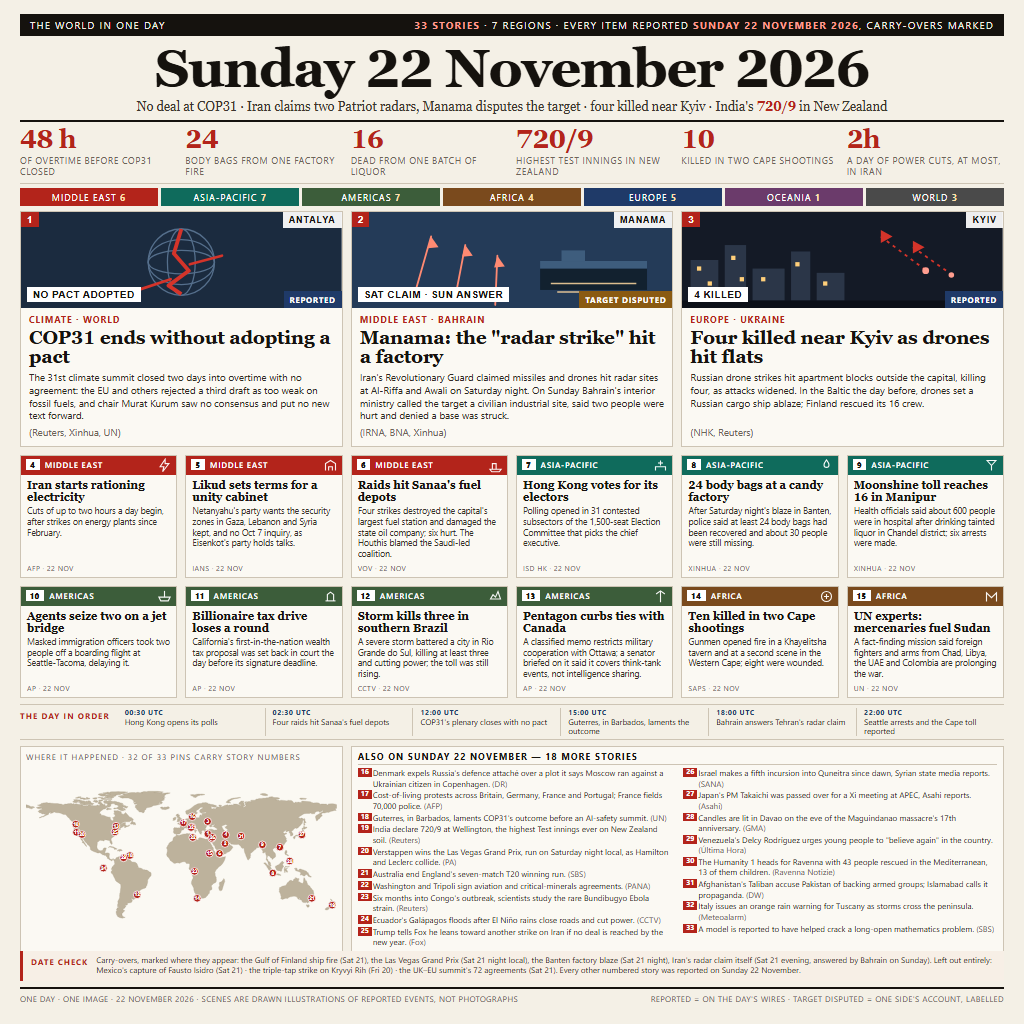
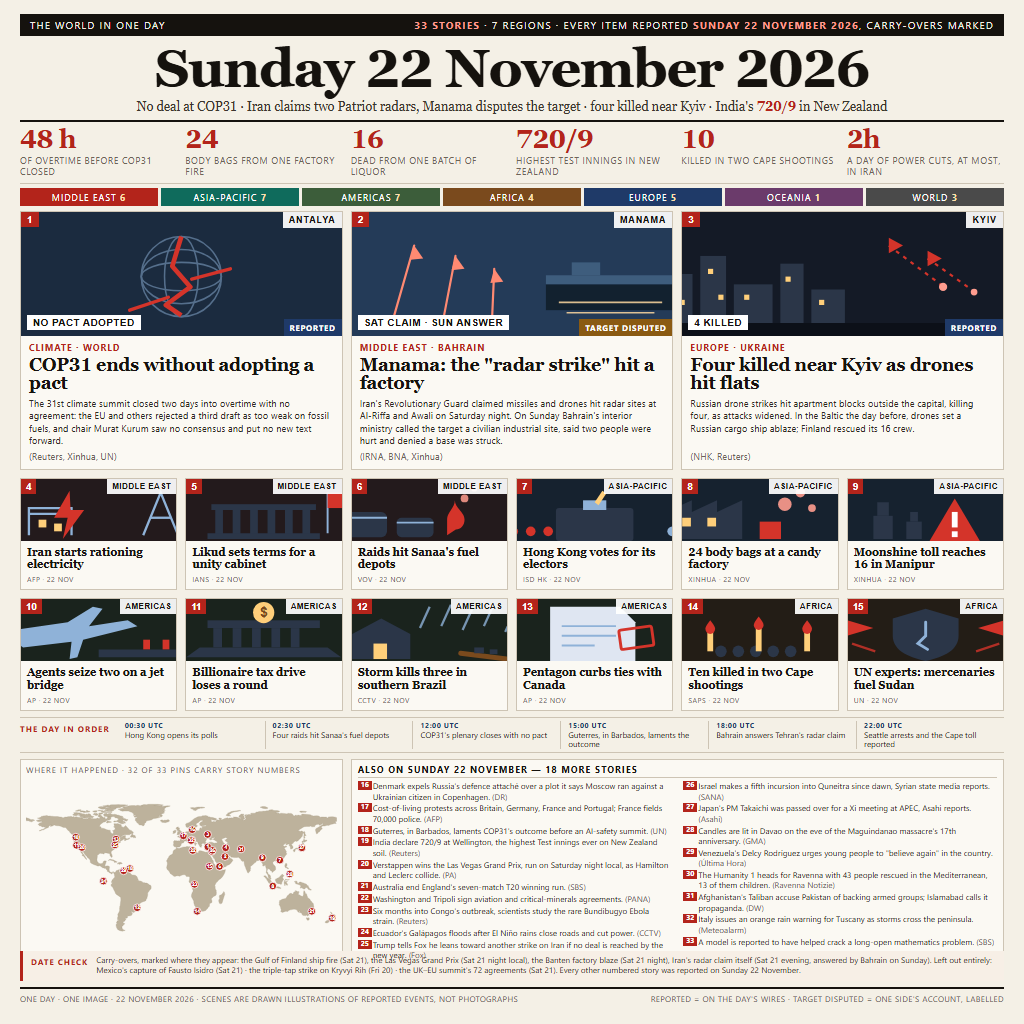
v5: every mid-size card gets a scene at half the card; hero art enlarged
Following the field's leading approach (scenes, not labels, carry the card): the twelve
mid-size cards now each hold a drawn scene occupying about 56% of the card, in the same flat
silhouette grammar and one night palette as the three lead panels, which grew from 96 to 124px.
Card body copy is gone: the picture and a two-line headline carry the story, and the small
print stays in the also-list. Scenes are rebuilt for semantic fit (a crack across Sudan's
shield, not a medical cross; a fallen trunk for Brazil's storm).

Changed region(s): [[0.0, 0.2188, 1.0, 0.9375]]

diff --git a/image/frontpage.html b/image/frontpage.html
@@ -50,7 +50,7 @@
 
   .heroes { display: grid; grid-template-columns: repeat(3, 1fr); gap: 8px; }
   .hero { border: 1px solid var(--rule); background: #fbf9f3; display: flex; flex-direction: column; }
-  .hero .art { height: 96px; position: relative; overflow: hidden; }
+  .hero .art { height: 124px; position: relative; overflow: hidden; }
   .hero .art svg { width: 100%; height: 100%; display: block; }
   .hero .n { position: absolute; left: 0; top: 0; background: var(--red); color: #fff; font: 700 10px Arial; padding: 2px 6px; }
   .hero .place { position: absolute; right: 0; top: 0; background: rgba(255,255,255,0.93); color: var(--ink); font: 700 9px Arial; letter-spacing: 0.1em; padding: 3px 6px; z-index: 2; }
@@ -62,26 +62,19 @@
   .hero .tag.dis { background: var(--amber); }
   .hero .txt { padding: 6px 8px 7px; flex: 1; display: flex; flex-direction: column; }
   .hero .k { font-size: 8.6px; letter-spacing: 0.13em; text-transform: uppercase; color: var(--red); font-weight: 700; }
-  .hero h2 { font-family: Georgia, serif; font-size: 19px; line-height: 1.04; margin: 3px 0 4px; letter-spacing: -0.2px; }
-  .hero p { font-size: 9.8px; line-height: 1.3; color: #2f2a23; display: flex; flex-direction: column; flex: 1; }
+  .hero h2 { font-family: Georgia, serif; font-size: 18px; line-height: 1.04; margin: 3px 0 4px; letter-spacing: -0.2px; }
+  .hero p { font-size: 9.4px; line-height: 1.3; color: #2f2a23; display: flex; flex-direction: column; flex: 1; }
   .hero p em { font-style: normal; color: var(--mute); display: block; margin-top: auto; padding-top: 4px; }
 
   .tiles { display: grid; grid-template-columns: repeat(6, 1fr); gap: 8px; margin-top: 8px; }
-  .tile { border: 1px solid var(--rule); background: #fbf9f3; padding: 0 0 4px; display: flex; flex-direction: column; }
-  .tile .strip { height: 19px; position: relative; }
-  .tile .strip span { position: absolute; left: 5px; top: 3px; color: #fff; font-size: 8.2px; font-weight: 600;
-                      letter-spacing: 0.08em; text-transform: uppercase; }
-  .tile .strip b { display: inline-block; background: #fff; color: var(--ink); font-size: 8.2px; padding: 0 4px; margin-right: 5px; }
-  .tile .strip svg { position: absolute; right: 4px; top: 2px; width: 15px; height: 15px; opacity: 0.95; }
-  .tile.me .strip { background: var(--red); }
-  .tile.eu .strip { background: var(--blue); }
-  .tile.am .strip { background: var(--green); }
-  .tile.ap .strip { background: #0f6b5c; }
-  .tile.af .strip { background: var(--brown); }
-  .tile h3 { font-family: Georgia, serif; font-size: 11.2px; line-height: 1.08; padding: 4px 6px 0; }
-  .tile p { font-size: 8.5px; line-height: 1.26; color: #3a342c; padding: 3px 6px 0; }
-  .tile .src { font-size: 7.2px; color: var(--mute); padding: 3px 6px 0; margin-top: auto; text-transform: uppercase; letter-spacing: 0.05em; }
-
+  .tile { border: 1px solid var(--rule); background: #fbf9f3; display: flex; flex-direction: column; overflow: hidden; }
+  .tile .scene { position: relative; height: 62px; }
+  .tile .scene svg { width: 100%; height: 100%; display: block; }
+  .tile .n { position: absolute; left: 0; top: 0; background: var(--red); color: #fff; font: 700 9.5px Arial; padding: 2px 5px; }
+  .tile .rg { position: absolute; right: 0; top: 0; background: rgba(255,255,255,0.93); color: var(--ink);
+              font: 700 7.6px Arial; letter-spacing: 0.09em; text-transform: uppercase; padding: 3px 5px; }
+  .tile h3 { font-family: Georgia, serif; font-size: 11px; line-height: 1.1; padding: 5px 6px 0; }
+  .tile .src { font-size: 7.2px; color: var(--mute); padding: 4px 6px 5px; margin-top: auto; text-transform: uppercase; letter-spacing: 0.05em; }
   .order { display: flex; align-items: stretch; gap: 0; margin-top: 6px; border-top: 1px solid var(--rule);
            border-bottom: 1px solid var(--rule); padding: 3px 0; }
   .order .h { font-size: 7.9px; letter-spacing: 0.14em; text-transform: uppercase; font-weight: 700; color: var(--red);
@@ -224,104 +217,78 @@
 
   <div class="tiles">
     <div class="tile me">
-      <div class="strip"><span><b>4</b>Middle East</span>
-        <svg viewBox="0 0 24 24" fill="none" stroke="#fff" stroke-width="1.8"><path d="M13 2 L5 14h6l-2 8 10-13h-6z"/></svg>
-      </div>
+      <div class="scene"><svg viewBox="0 0 300 64" preserveAspectRatio="xMidYMid slice"><rect width="300" height="64" fill="#231a1c"/><g stroke="#8fb2d8" stroke-width="2.4" fill="none"> <path d="M196 58 L214 14 L232 58"/><path d="M203 40 h22"/> <path d="M78 58 V30 h44 v28"/> <path d="M78 36 h44"/></g><g fill="#ffcf7a"><rect x="88" y="42" width="8" height="8"/><rect x="104" y="46" width="8" height="8"/></g><path d="M120 12 L104 40 h14 l-5 22 22 -30 h-14 z" fill="#d4342a"/></svg>
+        <span class="n">4</span><span class="rg">Middle East</span></div>
       <h3>Iran starts rationing electricity</h3>
-      <p>Cuts of up to two hours a day begin, after strikes on energy plants since February.</p>
       <div class="src">AFP · 22 Nov</div>
     </div>
     <div class="tile me">
-      <div class="strip"><span><b>5</b>Middle East</span>
-        <svg viewBox="0 0 24 24" fill="none" stroke="#fff" stroke-width="1.8"><path d="M4 20V9l8-5 8 5v11"/><path d="M9 20v-6h6v6"/></svg>
-      </div>
+      <div class="scene"><svg viewBox="0 0 300 64" preserveAspectRatio="xMidYMid slice"><rect width="300" height="64" fill="#231a1c"/><g fill="#2b3648"><rect x="96" y="26" width="108" height="6"/><rect x="100" y="32" width="8" height="26"/><rect x="118" y="32" width="8" height="26"/><rect x="136" y="32" width="8" height="26"/><rect x="154" y="32" width="8" height="26"/><rect x="172" y="32" width="8" height="26"/><rect x="190" y="32" width="8" height="26"/><rect x="92" y="56" width="116" height="6"/></g><g stroke="#8fb2d8" stroke-width="2"><path d="M216 56 V14"/><path d="M216 14 h26 v16 h-26z" fill="#d4342a" stroke="none"/></g></svg>
+        <span class="n">5</span><span class="rg">Middle East</span></div>
       <h3>Likud sets terms for a unity cabinet</h3>
-      <p>Netanyahu's party wants the security zones in Gaza, Lebanon and Syria kept, and no Oct 7 inquiry, as Eisenkot's party holds talks.</p>
       <div class="src">IANS · 22 Nov</div>
     </div>
     <div class="tile me">
-      <div class="strip"><span><b>6</b>Middle East</span>
-        <svg viewBox="0 0 24 24" fill="none" stroke="#fff" stroke-width="1.8"><path d="M3 18h18l-3 4H6z"/><path d="M7 18V9h6v9"/></svg>
-      </div>
+      <div class="scene"><svg viewBox="0 0 300 64" preserveAspectRatio="xMidYMid slice"><rect width="300" height="64" fill="#231a1c"/><g fill="#2b3648"><rect x="60" y="34" width="46" height="26" rx="6"/><rect x="116" y="40" width="38" height="20" rx="5"/></g><g stroke="#8fb2d8" stroke-width="2" fill="none"><path d="M60 40 h46 M116 45 h38"/></g><g fill="#d4342a"><path d="M168 58 v-16 c0 -8 8 -12 8 -20 c0 8 10 12 10 20 c0 6 -4 10 -9 10 z"/></g><g fill="#ff9d8f" opacity="0.85"><circle cx="186" cy="20" r="4"/><circle cx="196" cy="10" r="3"/></g></svg>
+        <span class="n">6</span><span class="rg">Middle East</span></div>
       <h3>Raids hit Sanaa's fuel depots</h3>
-      <p>Four strikes destroyed the capital's largest fuel station and damaged the state oil company; six hurt. The Houthis blamed the Saudi-led coalition.</p>
       <div class="src">VOV · 22 Nov</div>
     </div>
     <div class="tile ap">
-      <div class="strip"><span><b>7</b>Asia-Pacific</span>
-        <svg viewBox="0 0 24 24" fill="none" stroke="#fff" stroke-width="1.8"><path d="M4 20v-6h16v6"/><path d="M12 4v8"/><path d="M8 8h8"/></svg>
-      </div>
+      <div class="scene"><svg viewBox="0 0 300 64" preserveAspectRatio="xMidYMid slice"><rect width="300" height="64" fill="#16222f"/><g fill="#2b3648"><rect x="110" y="30" width="80" height="34" rx="3"/></g><rect x="138" y="22" width="24" height="10" fill="#8fb2d8"/><path d="M150 24 l8 -12 l4 3 l-8 12z" fill="#ffcf7a"/><g fill="#d4342a"><circle cx="66" cy="54" r="5"/><circle cx="84" cy="54" r="5"/><circle cx="102" cy="54" r="5"/></g><g fill="#8fb2d8"><circle cx="230" cy="54" r="5"/><circle cx="248" cy="54" r="5"/></g></svg>
+        <span class="n">7</span><span class="rg">Asia-Pacific</span></div>
       <h3>Hong Kong votes for its electors</h3>
-      <p>Polling opened in 31 contested subsectors of the 1,500-seat Election Committee that picks the chief executive.</p>
       <div class="src">ISD HK · 22 Nov</div>
     </div>
     <div class="tile ap">
-      <div class="strip"><span><b>8</b>Asia-Pacific</span>
-        <svg viewBox="0 0 24 24" fill="none" stroke="#fff" stroke-width="1.8"><path d="M12 3c3 4 4 6 4 8a4 4 0 0 1-8 0c0-2 1-4 4-8z"/></svg>
-      </div>
+      <div class="scene"><svg viewBox="0 0 300 64" preserveAspectRatio="xMidYMid slice"><rect width="300" height="64" fill="#16222f"/><path d="M54 62 V34 l26 -12 v12 l26 -12 v12 l26 -12 v40z" fill="#2b3648"/><g fill="#ffcf7a"><rect x="70" y="40" width="9" height="9"/><rect x="96" y="40" width="9" height="9"/></g><g fill="#ff9d8f" opacity="0.9"><circle cx="176" cy="26" r="7"/><circle cx="192" cy="14" r="5"/><circle cx="204" cy="30" r="4"/></g><path d="M150 62 v-18 h22 v18z" fill="#d4342a"/></svg>
+        <span class="n">8</span><span class="rg">Asia-Pacific</span></div>
       <h3>24 body bags at a candy factory</h3>
-      <p>After Saturday night's blaze in Banten, police said at least 24 body bags had been recovered and about 30 people were still missing.</p>
       <div class="src">Xinhua · 22 Nov</div>
     </div>
     <div class="tile ap">
-      <div class="strip"><span><b>9</b>Asia-Pacific</span>
-        <svg viewBox="0 0 24 24" fill="none" stroke="#fff" stroke-width="1.8"><path d="M5 4h14l-7 8z"/><path d="M12 12v8"/></svg>
-      </div>
+      <div class="scene"><svg viewBox="0 0 300 64" preserveAspectRatio="xMidYMid slice"><rect width="300" height="64" fill="#16222f"/><g fill="#2b3648"><path d="M96 62 V38 h20 v24z"/><rect x="100" y="24" width="12" height="14"/><path d="M130 62 V44 h16 v18z"/><rect x="134" y="34" width="8" height="10"/></g><g fill="#d4342a"><path d="M180 20 l26 44 h-52z"/></g><rect x="177" y="34" width="6" height="16" fill="#fff"/><rect x="177" y="54" width="6" height="6" fill="#fff"/></svg>
+        <span class="n">9</span><span class="rg">Asia-Pacific</span></div>
       <h3>Moonshine toll reaches 16 in Manipur</h3>
-      <p>Health officials said about 600 people were in hospital after drinking tainted liquor in Chandel district; six arrests were made.</p>
       <div class="src">Xinhua · 22 Nov</div>
     </div>
-
     <div class="tile am">
-      <div class="strip"><span><b>10</b>Americas</span>
-        <svg viewBox="0 0 24 24" fill="none" stroke="#fff" stroke-width="1.8"><path d="M3 13h18l-3 6H6z"/><path d="M12 3v10"/></svg>
-      </div>
+      <div class="scene"><svg viewBox="0 0 300 64" preserveAspectRatio="xMidYMid slice"><rect width="300" height="64" fill="#1a231d"/><path d="M48 34 l70 -10 l26 -16 l10 2 l-14 18 l40 -6 l10 6 l-56 14 l-6 18 l-8 2 l2 -18 l-50 6z" fill="#8fb2d8"/><path d="M150 52 h96 v8 h-96z" fill="#2b3648"/><g fill="#d4342a"><rect x="196" y="42" width="7" height="10"/><rect x="216" y="42" width="7" height="10"/></g></svg>
+        <span class="n">10</span><span class="rg">Americas</span></div>
       <h3>Agents seize two on a jet bridge</h3>
-      <p>Masked immigration officers took two people off a boarding flight at Seattle-Tacoma, delaying it.</p>
       <div class="src">AP · 22 Nov</div>
     </div>
     <div class="tile am">
-      <div class="strip"><span><b>11</b>Americas</span>
-        <svg viewBox="0 0 24 24" fill="none" stroke="#fff" stroke-width="1.8"><path d="M4 19h16"/><path d="M7 19V9l5-4 5 4v10"/></svg>
-      </div>
+      <div class="scene"><svg viewBox="0 0 300 64" preserveAspectRatio="xMidYMid slice"><rect width="300" height="64" fill="#1a231d"/><g fill="#2b3648"><path d="M70 60 h160 l-14 -10 H84z"/><rect x="92" y="22" width="116" height="8"/><rect x="98" y="30" width="9" height="20"/><rect x="118" y="30" width="9" height="20"/><rect x="138" y="30" width="9" height="20"/><rect x="158" y="30" width="9" height="20"/><rect x="178" y="30" width="9" height="20"/></g><circle cx="150" cy="14" r="11" fill="#ffcf7a"/><text x="150" y="19" font-family="Arial" font-size="14" font-weight="700" fill="#7a4a1d" text-anchor="middle">$</text></svg>
+        <span class="n">11</span><span class="rg">Americas</span></div>
       <h3>Billionaire tax drive loses a round</h3>
-      <p>California's first-in-the-nation wealth tax proposal was set back in court the day before its signature deadline.</p>
       <div class="src">AP · 22 Nov</div>
     </div>
     <div class="tile am">
-      <div class="strip"><span><b>12</b>Americas</span>
-        <svg viewBox="0 0 24 24" fill="none" stroke="#fff" stroke-width="1.8"><path d="M4 16l4-7 4 4 4-9 4 12z"/></svg>
-      </div>
+      <div class="scene"><svg viewBox="0 0 300 64" preserveAspectRatio="xMidYMid slice"><rect width="300" height="64" fill="#1a231d"/><path d="M70 62 V36 l30 -16 l30 16 v26z" fill="#2b3648"/><rect x="92" y="46" width="14" height="16" fill="#ffcf7a"/><g stroke="#8fb2d8" stroke-width="2.4" opacity="0.8"><path d="M150 8 l-10 22"/><path d="M172 6 l-10 22"/><path d="M194 10 l-10 22"/><path d="M216 6 l-10 22"/><path d="M238 12 l-10 22"/></g><path d="M182 56 l48 6" stroke="#7a4a1d" stroke-width="5" stroke-linecap="round"/><g fill="#2b3648"><rect x="196" y="50" width="10" height="6"/><rect x="212" y="52" width="8" height="5"/></g></svg>
+        <span class="n">12</span><span class="rg">Americas</span></div>
       <h3>Storm kills three in southern Brazil</h3>
-      <p>A severe storm battered a city in Rio Grande do Sul, killing at least three and cutting power; the toll was still rising.</p>
       <div class="src">CCTV · 22 Nov</div>
     </div>
     <div class="tile am">
-      <div class="strip"><span><b>13</b>Americas</span>
-        <svg viewBox="0 0 24 24" fill="none" stroke="#fff" stroke-width="1.8"><path d="M12 3v18M5 8l7-5 7 5"/></svg>
-      </div>
+      <div class="scene"><svg viewBox="0 0 300 64" preserveAspectRatio="xMidYMid slice"><rect width="300" height="64" fill="#1a231d"/><g fill="#dfe6f2"><path d="M104 8 h72 l16 16 v40 h-88z"/></g><g stroke="#8fb2d8" stroke-width="2"><path d="M116 28 h56"/><path d="M116 38 h56"/><path d="M116 48 h34"/></g><g fill="none" stroke="#d4342a" stroke-width="3"><rect x="176" y="30" width="34" height="20" rx="2" transform="rotate(-8 193 40)"/></g></svg>
+        <span class="n">13</span><span class="rg">Americas</span></div>
       <h3>Pentagon curbs ties with Canada</h3>
-      <p>A classified memo restricts military cooperation with Ottawa; a senator briefed on it said it covers think-tank events, not intelligence sharing.</p>
       <div class="src">AP · 22 Nov</div>
     </div>
     <div class="tile af">
-      <div class="strip"><span><b>14</b>Africa</span>
-        <svg viewBox="0 0 24 24" fill="none" stroke="#fff" stroke-width="1.8"><circle cx="12" cy="12" r="8"/><path d="M12 8v8M8 12h8"/></svg>
-      </div>
+      <div class="scene"><svg viewBox="0 0 300 64" preserveAspectRatio="xMidYMid slice"><rect width="300" height="64" fill="#231d16"/><g fill="#2b3648"><circle cx="110" cy="54" r="6"/><circle cx="128" cy="54" r="6"/><circle cx="146" cy="54" r="6"/><circle cx="164" cy="54" r="6"/><circle cx="182" cy="54" r="6"/></g><g fill="#ffcf7a"><rect x="96" y="34" width="6" height="20"/><rect x="146" y="30" width="6" height="24"/><rect x="196" y="34" width="6" height="20"/></g><g fill="#d4342a"><path d="M99 22 c4 5 5 7 5 9 a5 5 0 0 1 -10 0 c0 -2 1 -4 5 -9z"/><path d="M149 18 c4 5 5 7 5 9 a5 5 0 0 1 -10 0 c0 -2 1 -4 5 -9z"/><path d="M199 22 c4 5 5 7 5 9 a5 5 0 0 1 -10 0 c0 -2 1 -4 5 -9z"/></g></svg>
+        <span class="n">14</span><span class="rg">Africa</span></div>
       <h3>Ten killed in two Cape shootings</h3>
-      <p>Gunmen opened fire in a Khayelitsha tavern and at a second scene in the Western Cape; eight were wounded.</p>
       <div class="src">SAPS · 22 Nov</div>
     </div>
     <div class="tile af">
-      <div class="strip"><span><b>15</b>Africa</span>
-        <svg viewBox="0 0 24 24" fill="none" stroke="#fff" stroke-width="1.8"><path d="M4 20V6l8 8 8-8v14"/></svg>
-      </div>
+      <div class="scene"><svg viewBox="0 0 300 64" preserveAspectRatio="xMidYMid slice"><rect width="300" height="64" fill="#231d16"/><path d="M150 10 l34 10 v18 c0 14 -14 22 -34 26 c-20 -4 -34 -12 -34 -26 V20z" fill="#2b3648"/><path d="M150 24 v14 l-8 8 l10 6" stroke="#8fb2d8" stroke-width="3" fill="none" stroke-linecap="round"/><g fill="#d4342a"><path d="M62 20 l34 10 -34 10z"/><path d="M238 20 l-34 10 34 10z"/></g><g stroke="#d4342a" stroke-width="2.4" opacity="0.8"><path d="M74 46 l24 8"/><path d="M226 46 l-24 8"/></g></svg>
+        <span class="n">15</span><span class="rg">Africa</span></div>
       <h3>UN experts: mercenaries fuel Sudan</h3>
-      <p>A fact-finding mission said foreign fighters and arms from Chad, Libya, the UAE and Colombia are prolonging the war.</p>
       <div class="src">UN · 22 Nov</div>
     </div>
   </div>
-
   <div class="order">
     <div class="h">The day in order</div>
     <ol>

diff --git a/image/frontpage.raw.html b/image/frontpage.raw.html
@@ -50,7 +50,7 @@
 
   .heroes { display: grid; grid-template-columns: repeat(3, 1fr); gap: 8px; }
   .hero { border: 1px solid var(--rule); background: #fbf9f3; display: flex; flex-direction: column; }
-  .hero .art { height: 96px; position: relative; overflow: hidden; }
+  .hero .art { height: 124px; position: relative; overflow: hidden; }
   .hero .art svg { width: 100%; height: 100%; display: block; }
   .hero .n { position: absolute; left: 0; top: 0; background: var(--red); color: #fff; font: 700 10px Arial; padding: 2px 6px; }
   .hero .place { position: absolute; right: 0; top: 0; background: rgba(255,255,255,0.93); color: var(--ink); font: 700 9px Arial; letter-spacing: 0.1em; padding: 3px 6px; z-index: 2; }
@@ -62,26 +62,19 @@
   .hero .tag.dis { background: var(--amber); }
   .hero .txt { padding: 6px 8px 7px; flex: 1; display: flex; flex-direction: column; }
   .hero .k { font-size: 8.6px; letter-spacing: 0.13em; text-transform: uppercase; color: var(--red); font-weight: 700; }
-  .hero h2 { font-family: Georgia, serif; font-size: 19px; line-height: 1.04; margin: 3px 0 4px; letter-spacing: -0.2px; }
-  .hero p { font-size: 9.8px; line-height: 1.3; color: #2f2a23; display: flex; flex-direction: column; flex: 1; }
+  .hero h2 { font-family: Georgia, serif; font-size: 18px; line-height: 1.04; margin: 3px 0 4px; letter-spacing: -0.2px; }
+  .hero p { font-size: 9.4px; line-height: 1.3; color: #2f2a23; display: flex; flex-direction: column; flex: 1; }
   .hero p em { font-style: normal; color: var(--mute); display: block; margin-top: auto; padding-top: 4px; }
 
   .tiles { display: grid; grid-template-columns: repeat(6, 1fr); gap: 8px; margin-top: 8px; }
-  .tile { border: 1px solid var(--rule); background: #fbf9f3; padding: 0 0 4px; display: flex; flex-direction: column; }
-  .tile .strip { height: 19px; position: relative; }
-  .tile .strip span { position: absolute; left: 5px; top: 3px; color: #fff; font-size: 8.2px; font-weight: 600;
-                      letter-spacing: 0.08em; text-transform: uppercase; }
-  .tile .strip b { display: inline-block; background: #fff; color: var(--ink); font-size: 8.2px; padding: 0 4px; margin-right: 5px; }
-  .tile .strip svg { position: absolute; right: 4px; top: 2px; width: 15px; height: 15px; opacity: 0.95; }
-  .tile.me .strip { background: var(--red); }
-  .tile.eu .strip { background: var(--blue); }
-  .tile.am .strip { background: var(--green); }
-  .tile.ap .strip { background: #0f6b5c; }
-  .tile.af .strip { background: var(--brown); }
-  .tile h3 { font-family: Georgia, serif; font-size: 11.2px; line-height: 1.08; padding: 4px 6px 0; }
-  .tile p { font-size: 8.5px; line-height: 1.26; color: #3a342c; padding: 3px 6px 0; }
-  .tile .src { font-size: 7.2px; color: var(--mute); padding: 3px 6px 0; margin-top: auto; text-transform: uppercase; letter-spacing: 0.05em; }
-
+  .tile { border: 1px solid var(--rule); background: #fbf9f3; display: flex; flex-direction: column; overflow: hidden; }
+  .tile .scene { position: relative; height: 62px; }
+  .tile .scene svg { width: 100%; height: 100%; display: block; }
+  .tile .n { position: absolute; left: 0; top: 0; background: var(--red); color: #fff; font: 700 9.5px Arial; padding: 2px 5px; }
+  .tile .rg { position: absolute; right: 0; top: 0; background: rgba(255,255,255,0.93); color: var(--ink);
+              font: 700 7.6px Arial; letter-spacing: 0.09em; text-transform: uppercase; padding: 3px 5px; }
+  .tile h3 { font-family: Georgia, serif; font-size: 11px; line-height: 1.1; padding: 5px 6px 0; }
+  .tile .src { font-size: 7.2px; color: var(--mute); padding: 4px 6px 5px; margin-top: auto; text-transform: uppercase; letter-spacing: 0.05em; }
   .order { display: flex; align-items: stretch; gap: 0; margin-top: 6px; border-top: 1px solid var(--rule);
            border-bottom: 1px solid var(--rule); padding: 3px 0; }
   .order .h { font-size: 7.9px; letter-spacing: 0.14em; text-transform: uppercase; font-weight: 700; color: var(--red);
@@ -224,104 +217,78 @@
 
   <div class="tiles">
     <div class="tile me">
-      <div class="strip"><span><b>4</b>Middle East</span>
-        <svg viewBox="0 0 24 24" fill="none" stroke="#fff" stroke-width="1.8"><path d="M13 2 L5 14h6l-2 8 10-13h-6z"/></svg>
-      </div>
+      <div class="scene"><svg viewBox="0 0 300 64" preserveAspectRatio="xMidYMid slice"><rect width="300" height="64" fill="#231a1c"/><g stroke="#8fb2d8" stroke-width="2.4" fill="none"> <path d="M196 58 L214 14 L232 58"/><path d="M203 40 h22"/> <path d="M78 58 V30 h44 v28"/> <path d="M78 36 h44"/></g><g fill="#ffcf7a"><rect x="88" y="42" width="8" height="8"/><rect x="104" y="46" width="8" height="8"/></g><path d="M120 12 L104 40 h14 l-5 22 22 -30 h-14 z" fill="#d4342a"/></svg>
+        <span class="n">4</span><span class="rg">Middle East</span></div>
       <h3>Iran starts rationing electricity</h3>
-      <p>Cuts of up to two hours a day begin, after strikes on energy plants since February.</p>
       <div class="src">AFP · 22 Nov</div>
     </div>
     <div class="tile me">
-      <div class="strip"><span><b>5</b>Middle East</span>
-        <svg viewBox="0 0 24 24" fill="none" stroke="#fff" stroke-width="1.8"><path d="M4 20V9l8-5 8 5v11"/><path d="M9 20v-6h6v6"/></svg>
-      </div>
+      <div class="scene"><svg viewBox="0 0 300 64" preserveAspectRatio="xMidYMid slice"><rect width="300" height="64" fill="#231a1c"/><g fill="#2b3648"><rect x="96" y="26" width="108" height="6"/><rect x="100" y="32" width="8" height="26"/><rect x="118" y="32" width="8" height="26"/><rect x="136" y="32" width="8" height="26"/><rect x="154" y="32" width="8" height="26"/><rect x="172" y="32" width="8" height="26"/><rect x="190" y="32" width="8" height="26"/><rect x="92" y="56" width="116" height="6"/></g><g stroke="#8fb2d8" stroke-width="2"><path d="M216 56 V14"/><path d="M216 14 h26 v16 h-26z" fill="#d4342a" stroke="none"/></g></svg>
+        <span class="n">5</span><span class="rg">Middle East</span></div>
       <h3>Likud sets terms for a unity cabinet</h3>
-      <p>Netanyahu's party wants the security zones in Gaza, Lebanon and Syria kept, and no Oct 7 inquiry, as Eisenkot's party holds talks.</p>
       <div class="src">IANS · 22 Nov</div>
     </div>
     <div class="tile me">
-      <div class="strip"><span><b>6</b>Middle East</span>
-        <svg viewBox="0 0 24 24" fill="none" stroke="#fff" stroke-width="1.8"><path d="M3 18h18l-3 4H6z"/><path d="M7 18V9h6v9"/></svg>
-      </div>
+      <div class="scene"><svg viewBox="0 0 300 64" preserveAspectRatio="xMidYMid slice"><rect width="300" height="64" fill="#231a1c"/><g fill="#2b3648"><rect x="60" y="34" width="46" height="26" rx="6"/><rect x="116" y="40" width="38" height="20" rx="5"/></g><g stroke="#8fb2d8" stroke-width="2" fill="none"><path d="M60 40 h46 M116 45 h38"/></g><g fill="#d4342a"><path d="M168 58 v-16 c0 -8 8 -12 8 -20 c0 8 10 12 10 20 c0 6 -4 10 -9 10 z"/></g><g fill="#ff9d8f" opacity="0.85"><circle cx="186" cy="20" r="4"/><circle cx="196" cy="10" r="3"/></g></svg>
+        <span class="n">6</span><span class="rg">Middle East</span></div>
       <h3>Raids hit Sanaa's fuel depots</h3>
-      <p>Four strikes destroyed the capital's largest fuel station and damaged the state oil company; six hurt. The Houthis blamed the Saudi-led coalition.</p>
       <div class="src">VOV · 22 Nov</div>
     </div>
     <div class="tile ap">
-      <div class="strip"><span><b>7</b>Asia-Pacific</span>
-        <svg viewBox="0 0 24 24" fill="none" stroke="#fff" stroke-width="1.8"><path d="M4 20v-6h16v6"/><path d="M12 4v8"/><path d="M8 8h8"/></svg>
-      </div>
+      <div class="scene"><svg viewBox="0 0 300 64" preserveAspectRatio="xMidYMid slice"><rect width="300" height="64" fill="#16222f"/><g fill="#2b3648"><rect x="110" y="30" width="80" height="34" rx="3"/></g><rect x="138" y="22" width="24" height="10" fill="#8fb2d8"/><path d="M150 24 l8 -12 l4 3 l-8 12z" fill="#ffcf7a"/><g fill="#d4342a"><circle cx="66" cy="54" r="5"/><circle cx="84" cy="54" r="5"/><circle cx="102" cy="54" r="5"/></g><g fill="#8fb2d8"><circle cx="230" cy="54" r="5"/><circle cx="248" cy="54" r="5"/></g></svg>
+        <span class="n">7</span><span class="rg">Asia-Pacific</span></div>
       <h3>Hong Kong votes for its electors</h3>
-      <p>Polling opened in 31 contested subsectors of the 1,500-seat Election Committee that picks the chief executive.</p>
       <div class="src">ISD HK · 22 Nov</div>
     </div>
     <div class="tile ap">
-      <div class="strip"><span><b>8</b>Asia-Pacific</span>
-        <svg viewBox="0 0 24 24" fill="none" stroke="#fff" stroke-width="1.8"><path d="M12 3c3 4 4 6 4 8a4 4 0 0 1-8 0c0-2 1-4 4-8z"/></svg>
-      </div>
+      <div class="scene"><svg viewBox="0 0 300 64" preserveAspectRatio="xMidYMid slice"><rect width="300" height="64" fill="#16222f"/><path d="M54 62 V34 l26 -12 v12 l26 -12 v12 l26 -12 v40z" fill="#2b3648"/><g fill="#ffcf7a"><rect x="70" y="40" width="9" height="9"/><rect x="96" y="40" width="9" height="9"/></g><g fill="#ff9d8f" opacity="0.9"><circle cx="176" cy="26" r="7"/><circle cx="192" cy="14" r="5"/><circle cx="204" cy="30" r="4"/></g><path d="M150 62 v-18 h22 v18z" fill="#d4342a"/></svg>
+        <span class="n">8</span><span class="rg">Asia-Pacific</span></div>
       <h3>24 body bags at a candy factory</h3>
-      <p>After Saturday night's blaze in Banten, police said at least 24 body bags had been recovered and about 30 people were still missing.</p>
       <div class="src">Xinhua · 22 Nov</div>
     </div>
     <div class="tile ap">
-      <div class="strip"><span><b>9</b>Asia-Pacific</span>
-        <svg viewBox="0 0 24 24" fill="none" stroke="#fff" stroke-width="1.8"><path d="M5 4h14l-7 8z"/><path d="M12 12v8"/></svg>
-      </div>
+      <div class="scene"><svg viewBox="0 0 300 64" preserveAspectRatio="xMidYMid slice"><rect width="300" height="64" fill="#16222f"/><g fill="#2b3648"><path d="M96 62 V38 h20 v24z"/><rect x="100" y="24" width="12" height="14"/><path d="M130 62 V44 h16 v18z"/><rect x="134" y="34" width="8" height="10"/></g><g fill="#d4342a"><path d="M180 20 l26 44 h-52z"/></g><rect x="177" y="34" width="6" height="16" fill="#fff"/><rect x="177" y="54" width="6" height="6" fill="#fff"/></svg>
+        <span class="n">9</span><span class="rg">Asia-Pacific</span></div>
       <h3>Moonshine toll reaches 16 in Manipur</h3>
-      <p>Health officials said about 600 people were in hospital after drinking tainted liquor in Chandel district; six arrests were made.</p>
       <div class="src">Xinhua · 22 Nov</div>
     </div>
-
     <div class="tile am">
-      <div class="strip"><span><b>10</b>Americas</span>
-        <svg viewBox="0 0 24 24" fill="none" stroke="#fff" stroke-width="1.8"><path d="M3 13h18l-3 6H6z"/><path d="M12 3v10"/></svg>
-      </div>
+      <div class="scene"><svg viewBox="0 0 300 64" preserveAspectRatio="xMidYMid slice"><rect width="300" height="64" fill="#1a231d"/><path d="M48 34 l70 -10 l26 -16 l10 2 l-14 18 l40 -6 l10 6 l-56 14 l-6 18 l-8 2 l2 -18 l-50 6z" fill="#8fb2d8"/><path d="M150 52 h96 v8 h-96z" fill="#2b3648"/><g fill="#d4342a"><rect x="196" y="42" width="7" height="10"/><rect x="216" y="42" width="7" height="10"/></g></svg>
+        <span class="n">10</span><span class="rg">Americas</span></div>
       <h3>Agents seize two on a jet bridge</h3>
-      <p>Masked immigration officers took two people off a boarding flight at Seattle-Tacoma, delaying it.</p>
       <div class="src">AP · 22 Nov</div>
     </div>
     <div class="tile am">
-      <div class="strip"><span><b>11</b>Americas</span>
-        <svg viewBox="0 0 24 24" fill="none" stroke="#fff" stroke-width="1.8"><path d="M4 19h16"/><path d="M7 19V9l5-4 5 4v10"/></svg>
-      </div>
+      <div class="scene"><svg viewBox="0 0 300 64" preserveAspectRatio="xMidYMid slice"><rect width="300" height="64" fill="#1a231d"/><g fill="#2b3648"><path d="M70 60 h160 l-14 -10 H84z"/><rect x="92" y="22" width="116" height="8"/><rect x="98" y="30" width="9" height="20"/><rect x="118" y="30" width="9" height="20"/><rect x="138" y="30" width="9" height="20"/><rect x="158" y="30" width="9" height="20"/><rect x="178" y="30" width="9" height="20"/></g><circle cx="150" cy="14" r="11" fill="#ffcf7a"/><text x="150" y="19" font-family="Arial" font-size="14" font-weight="700" fill="#7a4a1d" text-anchor="middle">$</text></svg>
+        <span class="n">11</span><span class="rg">Americas</span></div>
       <h3>Billionaire tax drive loses a round</h3>
-      <p>California's first-in-the-nation wealth tax proposal was set back in court the day before its signature deadline.</p>
       <div class="src">AP · 22 Nov</div>
     </div>
     <div class="tile am">
-      <div class="strip"><span><b>12</b>Americas</span>
-        <svg viewBox="0 0 24 24" fill="none" stroke="#fff" stroke-width="1.8"><path d="M4 16l4-7 4 4 4-9 4 12z"/></svg>
-      </div>
+      <div class="scene"><svg viewBox="0 0 300 64" preserveAspectRatio="xMidYMid slice"><rect width="300" height="64" fill="#1a231d"/><path d="M70 62 V36 l30 -16 l30 16 v26z" fill="#2b3648"/><rect x="92" y="46" width="14" height="16" fill="#ffcf7a"/><g stroke="#8fb2d8" stroke-width="2.4" opacity="0.8"><path d="M150 8 l-10 22"/><path d="M172 6 l-10 22"/><path d="M194 10 l-10 22"/><path d="M216 6 l-10 22"/><path d="M238 12 l-10 22"/></g><path d="M182 56 l48 6" stroke="#7a4a1d" stroke-width="5" stroke-linecap="round"/><g fill="#2b3648"><rect x="196" y="50" width="10" height="6"/><rect x="212" y="52" width="8" height="5"/></g></svg>
+        <span class="n">12</span><span class="rg">Americas</span></div>
       <h3>Storm kills three in southern Brazil</h3>
-      <p>A severe storm battered a city in Rio Grande do Sul, killing at least three and cutting power; the toll was still rising.</p>
       <div class="src">CCTV · 22 Nov</div>
     </div>
     <div class="tile am">
-      <div class="strip"><span><b>13</b>Americas</span>
-        <svg viewBox="0 0 24 24" fill="none" stroke="#fff" stroke-width="1.8"><path d="M12 3v18M5 8l7-5 7 5"/></svg>
-      </div>
+      <div class="scene"><svg viewBox="0 0 300 64" preserveAspectRatio="xMidYMid slice"><rect width="300" height="64" fill="#1a231d"/><g fill="#dfe6f2"><path d="M104 8 h72 l16 16 v40 h-88z"/></g><g stroke="#8fb2d8" stroke-width="2"><path d="M116 28 h56"/><path d="M116 38 h56"/><path d="M116 48 h34"/></g><g fill="none" stroke="#d4342a" stroke-width="3"><rect x="176" y="30" width="34" height="20" rx="2" transform="rotate(-8 193 40)"/></g></svg>
+        <span class="n">13</span><span class="rg">Americas</span></div>
       <h3>Pentagon curbs ties with Canada</h3>
-      <p>A classified memo restricts military cooperation with Ottawa; a senator briefed on it said it covers think-tank events, not intelligence sharing.</p>
       <div class="src">AP · 22 Nov</div>
     </div>
     <div class="tile af">
-      <div class="strip"><span><b>14</b>Africa</span>
-        <svg viewBox="0 0 24 24" fill="none" stroke="#fff" stroke-width="1.8"><circle cx="12" cy="12" r="8"/><path d="M12 8v8M8 12h8"/></svg>
-      </div>
+      <div class="scene"><svg viewBox="0 0 300 64" preserveAspectRatio="xMidYMid slice"><rect width="300" height="64" fill="#231d16"/><g fill="#2b3648"><circle cx="110" cy="54" r="6"/><circle cx="128" cy="54" r="6"/><circle cx="146" cy="54" r="6"/><circle cx="164" cy="54" r="6"/><circle cx="182" cy="54" r="6"/></g><g fill="#ffcf7a"><rect x="96" y="34" width="6" height="20"/><rect x="146" y="30" width="6" height="24"/><rect x="196" y="34" width="6" height="20"/></g><g fill="#d4342a"><path d="M99 22 c4 5 5 7 5 9 a5 5 0 0 1 -10 0 c0 -2 1 -4 5 -9z"/><path d="M149 18 c4 5 5 7 5 9 a5 5 0 0 1 -10 0 c0 -2 1 -4 5 -9z"/><path d="M199 22 c4 5 5 7 5 9 a5 5 0 0 1 -10 0 c0 -2 1 -4 5 -9z"/></g></svg>
+        <span class="n">14</span><span class="rg">Africa</span></div>
       <h3>Ten killed in two Cape shootings</h3>
-      <p>Gunmen opened fire in a Khayelitsha tavern and at a second scene in the Western Cape; eight were wounded.</p>
       <div class="src">SAPS · 22 Nov</div>
     </div>
     <div class="tile af">
-      <div class="strip"><span><b>15</b>Africa</span>
-        <svg viewBox="0 0 24 24" fill="none" stroke="#fff" stroke-width="1.8"><path d="M4 20V6l8 8 8-8v14"/></svg>
-      </div>
+      <div class="scene"><svg viewBox="0 0 300 64" preserveAspectRatio="xMidYMid slice"><rect width="300" height="64" fill="#231d16"/><path d="M150 10 l34 10 v18 c0 14 -14 22 -34 26 c-20 -4 -34 -12 -34 -26 V20z" fill="#2b3648"/><path d="M150 24 v14 l-8 8 l10 6" stroke="#8fb2d8" stroke-width="3" fill="none" stroke-linecap="round"/><g fill="#d4342a"><path d="M62 20 l34 10 -34 10z"/><path d="M238 20 l-34 10 34 10z"/></g><g stroke="#d4342a" stroke-width="2.4" opacity="0.8"><path d="M74 46 l24 8"/><path d="M226 46 l-24 8"/></g></svg>
+        <span class="n">15</span><span class="rg">Africa</span></div>
       <h3>UN experts: mercenaries fuel Sudan</h3>
-      <p>A fact-finding mission said foreign fighters and arms from Chad, Libya, the UAE and Colombia are prolonging the war.</p>
       <div class="src">UN · 22 Nov</div>
     </div>
   </div>
-
   <div class="order">
     <div class="h">The day in order</div>
     <ol>
